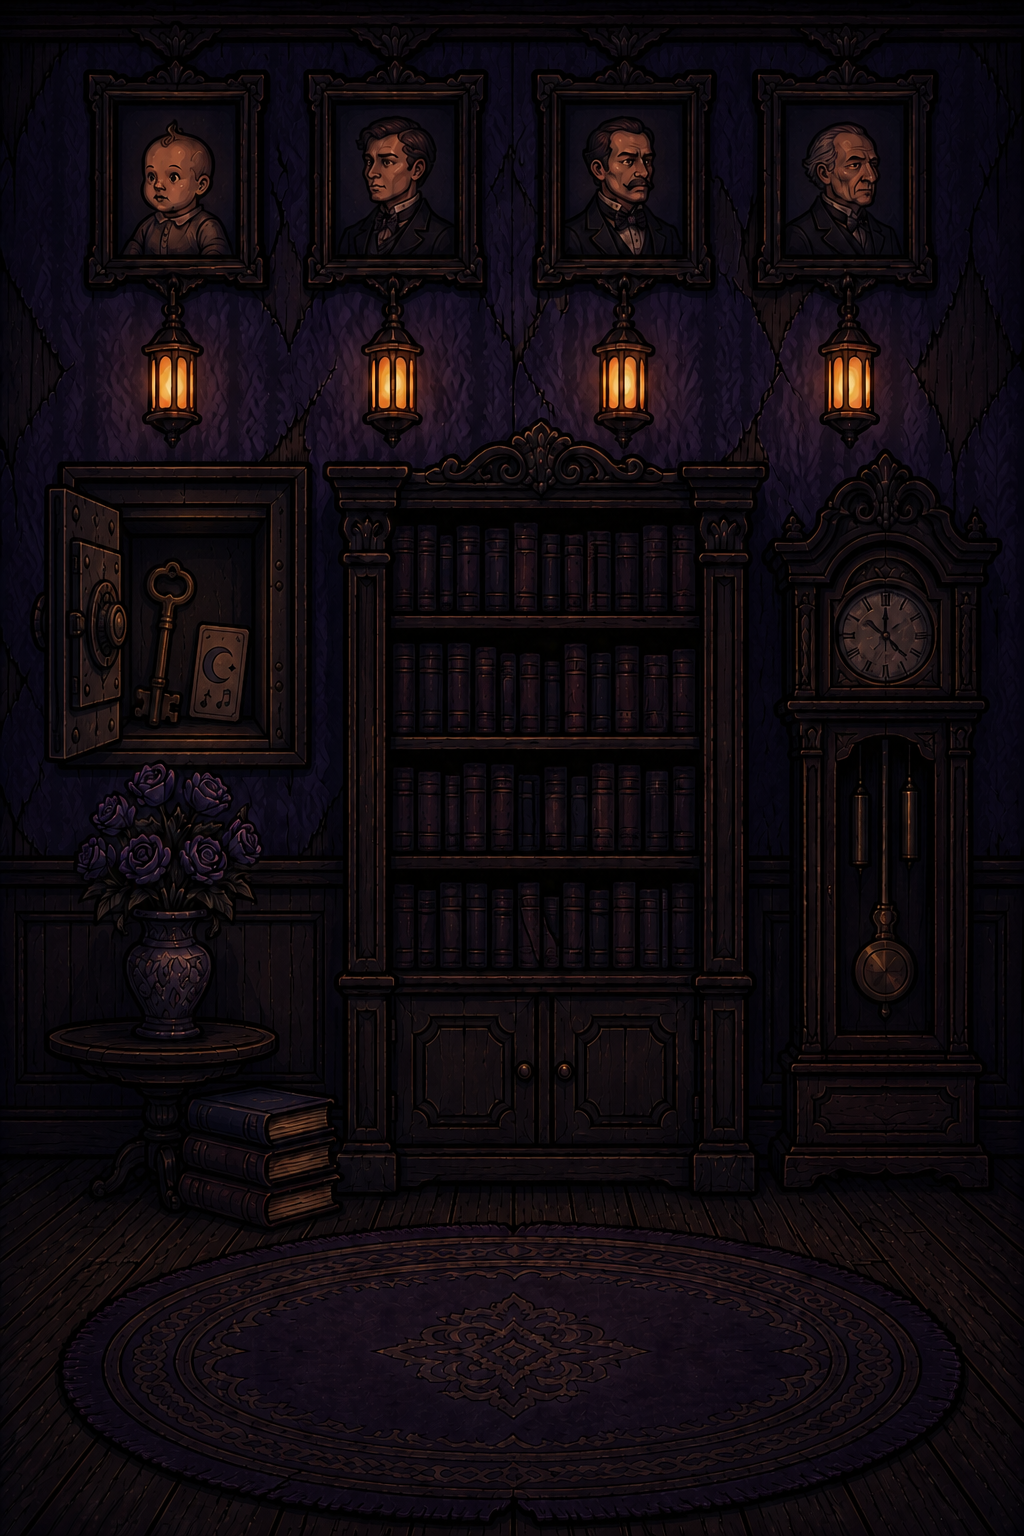
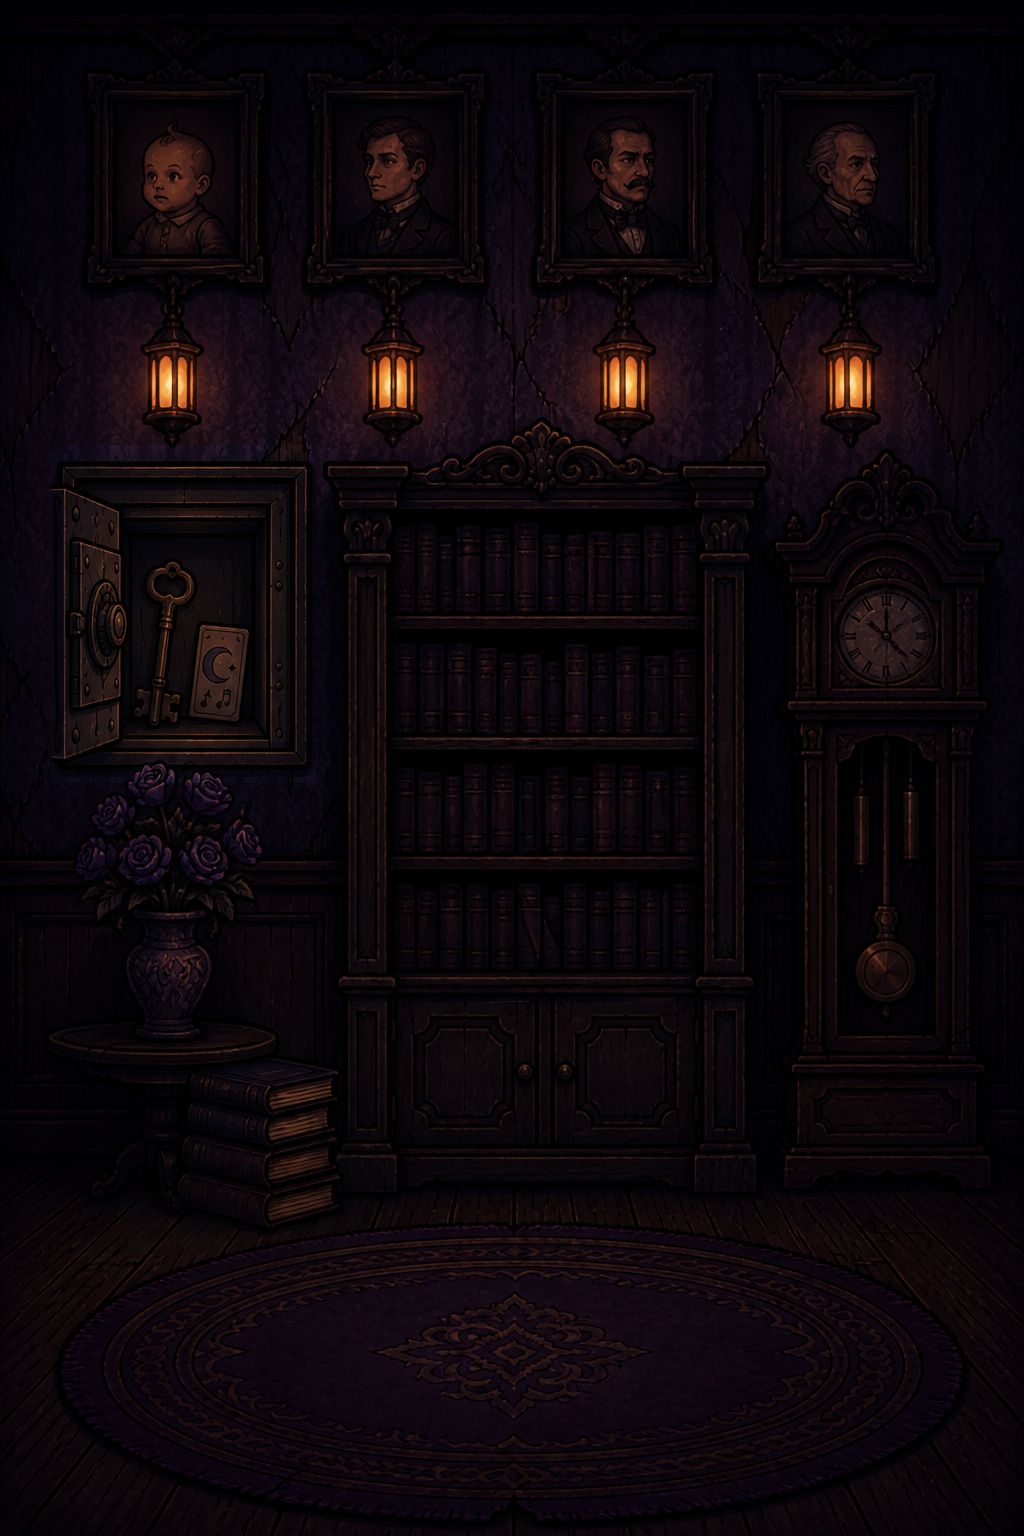
리터치 4차 반영 + 실기기 피드백: 현관 벽장 정합·금고 오버레이 재합성·기름병 용도 암시
- 현관 벽B: 가짜 문→벽장, 중복 콘솔→거울·스툴로 교체된 아트 반영 —
  신발장 클로즈업을 벽장 안 구두 선반으로 재정박(풍미 wardrobe 핫스팟은
  양초 경로와 통합), 다이얼 손잡이 아이콘 신규
- 거실 금고 knob/open 오버레이가 리터치 전 벽(책 3권) 기반이라 다이얼
  진입 시 벽이 과거로 롤백되던 것을 현재 벽 기반 재합성으로 해소
- 기름병 획득 대사에 용도 방향 암시 한 줄(크로스룸 아이템이 설명 없이
  주어진다는 실기기 피드백 — 정답 직결 아님, 삐걱대는 문짝 언급까지만)

diff --git a/lib/rooms/room1_foyer.dart b/lib/rooms/room1_foyer.dart
@@ -210,14 +210,12 @@ Room buildFoyer() {
             area: const Rect.fromLTWH(0.40, 0.08, 0.20, 0.16),
             onTap: (c) => c.openCloseup('clock'),
           ),
-          Hotspot(
-            id: 'wardrobe',
-            area: const Rect.fromLTWH(0.29, 0.23, 0.40, 0.52),
-            onTap: (c) => c.say(strFoyerRWardrobe),
-          ),
+          // 리터치 4차에서 우측 신발장이 거울·스툴로 바뀌고 중앙에 대형
+          // 벽장이 생겼다 — 구두 선반 클로즈업(foyer_shoes)은 이제 이 벽장
+          // 안쪽이라는 설정으로 rect를 벽장에 얹는다.
           Hotspot(
             id: 'shoe_cabinet',
-            area: const Rect.fromLTWH(0.66, 0.56, 0.30, 0.26),
+            area: const Rect.fromLTWH(0.29, 0.23, 0.40, 0.52),
             onTap: (c) {
               c.sfx('wood_slide');
               c.openCloseup('shoes');

diff --git a/lib/core/strings.dart b/lib/core/strings.dart
@@ -81,7 +81,7 @@ const strLivingRSafeKnobAttached =
     '끼릭, 손잡이가 딱 맞게 들어간다. 부우: "오, 거기 자리가 있었네? …몰랐다."';
 const strLivingRSafeWrong = '"우와, 그것도 아니야? 나 드라마 보다가 다 들리는데…" 부우가 킥킥댄다.';
 const strLivingRSafeOpen =
-    '철컹, 철컹, 철컹! 묵직한 소리와 함께 금고 문이 열렸다. 거실 열쇠와 기름병, 달 그림 음표 카드가 들어 있었다!';
+    '철컹, 철컹, 철컹! 묵직한 소리와 함께 금고 문이 열렸다. 거실 열쇠와 기름병, 달 그림 음표 카드가 들어 있었다! 부우: "기름병은 삼촌 거다. 이 집 문짝들이 하나같이 삐걱대서 늘 들고 다니셨지."';
 const strLivingRSafeEmpty = '금고 안은 이제 비어 있다.';
 
 // ── 서재 (room3_study) ──
